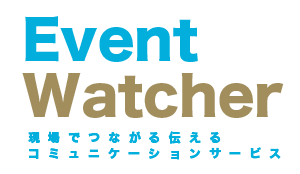
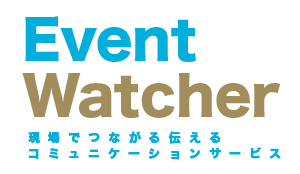
ごめんなさい、微調整

diff --git a/eventwatcher/index.html b/eventwatcher/index.html
@@ -14,7 +14,7 @@
 </head>
 	<body>
 		<section class="main">
-			<h2><img src="img/logo.gif" alt="rogo" width="400"></h2>
+			<h2><img src="img/logo.gif" alt="rogo" width="300"></h2>
 			<h1><img src="img/title.png" alt="rogo" width="300"></h1>
 			<p id="" class="btn btn-large"><a href="message.html">現在地を検索！</a></p>
 		</section>

diff --git a/eventwatcher/css/top.css b/eventwatcher/css/top.css
@@ -43,9 +43,9 @@ border-radius: 30px;
 text-align: center;
 }
 .main h2 {
-/*margin-top: -142px;
-padding-top: 160px;*/
-/*padding-bottom: 47px;*/
+margin-top: 10px;
+/*padding-top: 160px;
+*//*padding-bottom: 47px;*/
 max-width: none;
 min-width: inherit;
 width: auto;
